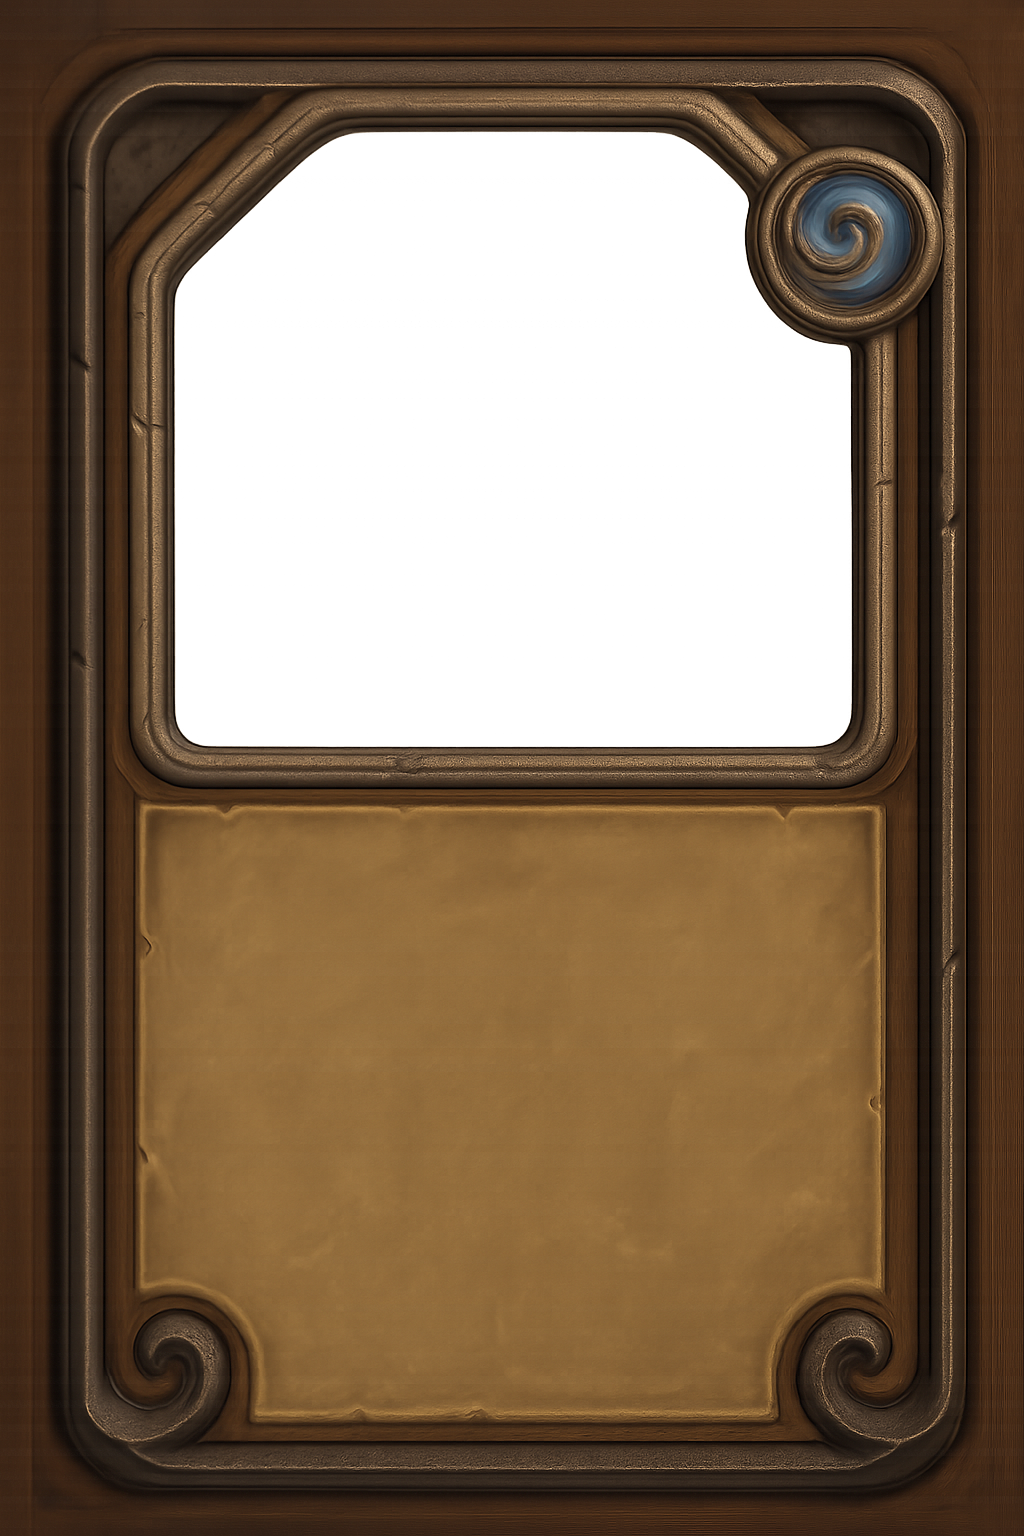
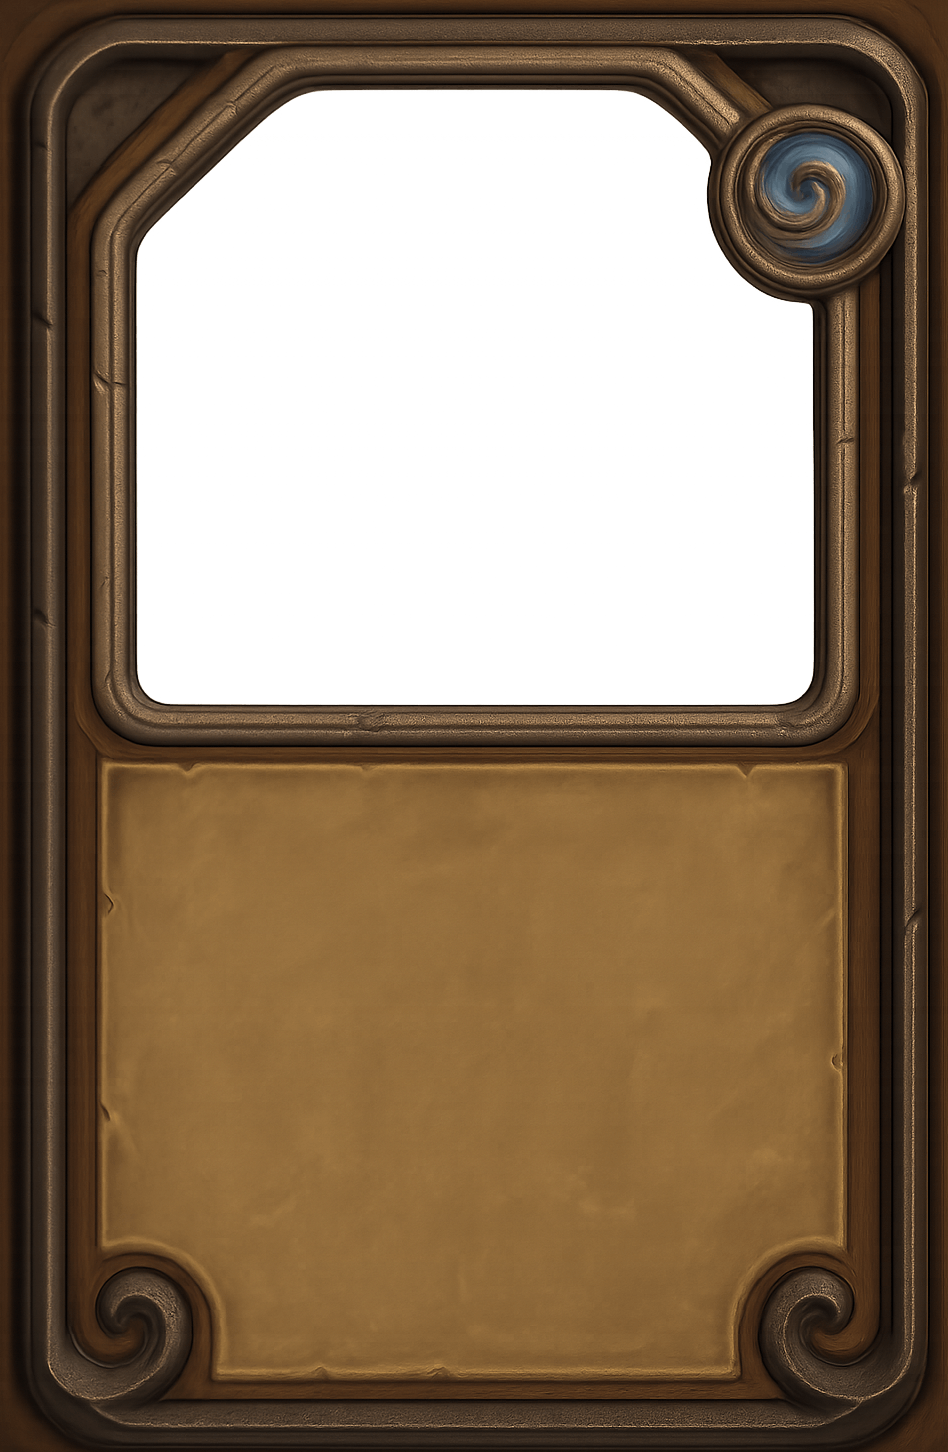
Better card frame.

diff --git a/styles.css b/styles.css
@@ -221,10 +221,10 @@ ul.zone-list li {
 }
 
 .card-tooltip img.card-art {
-  left: 17.1%;
-  top: 8.6%;
-  width: 66%;
-  height: 39.9%;
+  left: 14.1%;
+  top: 5.6%;
+  width: 72%;
+  height: 42.9%;
   object-fit: cover;
 }
 
@@ -243,26 +243,26 @@ ul.zone-list li {
 
 .card-tooltip .stat.cost,
 .card-tooltip .stat.armor {
-  top: 10.5%;
-  right: 10%;
+  top: 8.5%;
+  right: 7%;
   background: #1e90ff;
 }
 
 .card-tooltip .stat.attack {
-  bottom: 5%;
-  left: 8%;
+  bottom: 4%;
+  left: 7%;
   background: #f0b429;
 }
 
 .card-tooltip .stat.health {
-  bottom: 5%;
-  right: 8%;
+  bottom: 4%;
+  right: 7%;
   background: #e74c3c;
 }
 
 .card-info {
   position: absolute;
-  left: 12.4%;
+  left: 10.4%;
   top: 52.1%;
   width: 78.8%;
   height: 41.5%;
